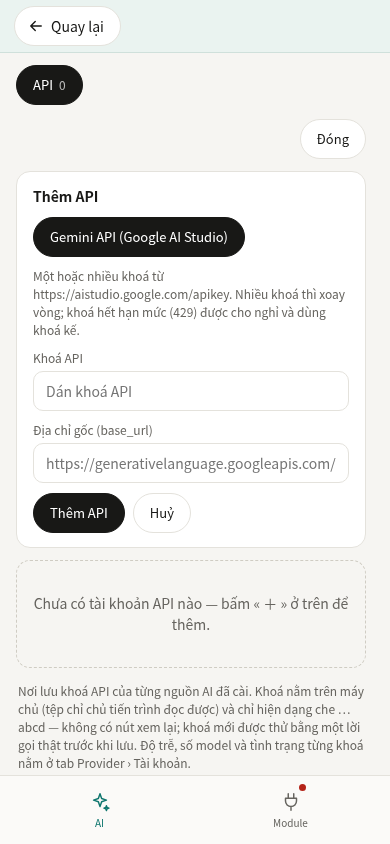
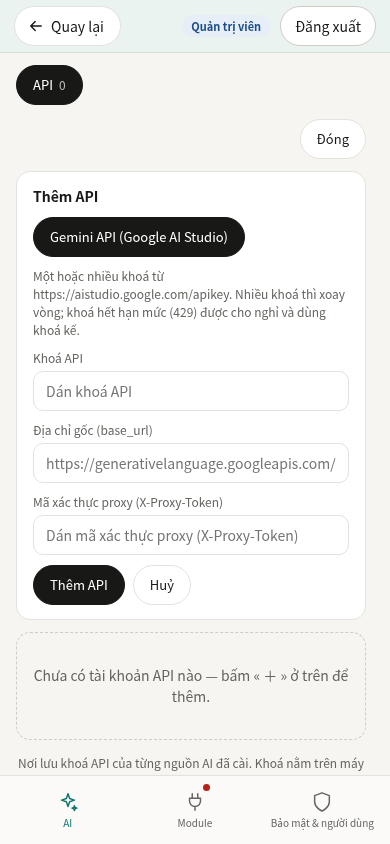
docs(readme): viết lại README tiếng Việt/Anh đầy đủ và đúng; sửa script chụp ảnh (cảnh Thiết lập/Đăng nhập/Bảo mật chụp đúng trang) và chụp lại ảnh
Lớp lỗi: tài liệu nói điều mã không làm / thiếu bước người mới cần (mã thiết lập đọc ở /data/ma_thiet_lap, không phải log; nút «Thiết lập và đăng nhập»; cài module và thêm khoá trước khi gọi chat; khôi phục kiểm→áp dụng; chown 1000:1000; PUBLIC_URL→421) và ảnh trùng băm vì script chụp hỏng.
Cùng lớp: đã kiểm sha256 22+6 ảnh: không còn ảnh trùng; đối chiếu ví dụ compose với docker-compose.yml thật.
Nguyên tắc: README nêu thẳng giới hạn (module chưa có noi/nghe/nhung/xep_hang/tim_kiem/thiet_bi trả 501; chưa kiểm Google/muse thật).
Bảo mật: script chụp dùng lõi tạm + GitHub/Google GIẢ, cờ WEB2API_TEST_CHO_PHEP_LOOPBACK chỉ đặt trong tiến trình script; ảnh không chứa khoá thật hay IP nhà.

Claude-Session: https://claude.ai/code/session_01B3y7v6Yop55GW2bmgaAdcq

diff --git a/README.en.md b/README.en.md
@@ -5,7 +5,7 @@
   <a href="https://github.com/TriTue2011/web2api/actions/workflows/security.yml"><img src="https://github.com/TriTue2011/web2api/actions/workflows/security.yml/badge.svg" alt="Security Scan"></a>
 </p>
 
-A lightweight, OpenAI-compatible AI gateway (`/v1/models`, `/v1/chat/completions`, streaming, image generation, video, audio, embeddings...) running in a single Docker container. Built for individuals and home-lab setups seeking to unify diverse AI sources (Google Gemini, Meta Muse, and more) into standard OpenAI client applications such as the OpenAI SDK, Home Assistant, Open WebUI, and LibreChat. Its core distinction: the engine acts as an unopinionated **"translator"** containing no vendor-specific code; all AI backends are modular extensions loaded on the fly from git without rebuilding Docker images or restarting containers.
+A lightweight, OpenAI-compatible AI gateway (`/v1/models`, `/v1/chat/completions`, streaming, image generation, video, audio, embeddings...) running in a single Docker container. Built for individuals and home-lab setups seeking to unify diverse AI sources (Google Gemini, Meta Muse, and more) into standard OpenAI client applications (e.g. OpenAI SDK, curl; not specifically verified with Home Assistant). Its core distinction: the engine acts as an unopinionated **"translator"** containing no vendor-specific code; all AI backends are modular extensions loaded on the fly from git without rebuilding Docker images or restarting containers.
 
 [English](README.en.md) | [Tiếng Việt](README.md)
 
@@ -15,7 +15,7 @@ flowchart LR
     CLIENT["Client Applications<br/>(OpenAI SDK, Home Assistant, curl)"]
     ADMIN["Administrator<br/>(Web Browser)"]
   end
-  subgraph W2A["web2api (Container :3031 / 127.0.0.1)"]
+  subgraph W2A["web2api (Host 127.0.0.1:3031 / Container :8000)"]
     CORE["Core Translator<br/>(FastAPI /v1 & /api)"]
     MOD["Pluggable Modules<br/>(modules/<id>/)"]
   end
@@ -34,23 +34,23 @@ flowchart LR
   - Model Catalog: `GET /v1/models` and `GET /v1/models/{model}` (aggregated from connected modules and fallback combos).
   - Vision & Image: Image generation `POST /v1/images/generations`, image edits `POST /v1/images/edits`, and Responses API `POST /v1/responses` with `image_generation` tool calls (SSE streaming supported).
   - Video Generation: Asynchronous creation `POST /v1/videos`, polling status `GET /v1/videos/{id}`, streaming content download `GET /v1/videos/{id}/content`.
-  - Audio: Text-to-speech `POST /v1/audio/speech` (binary chunked audio stream), speech-to-text `POST /v1/audio/transcriptions` (multipart file upload).
-  - Embeddings & Reranking: Vector embeddings `POST /v1/embeddings`, document reranking `POST /v1/rerank`.
-- **Runtime Pluggable Architecture**: Install, update, or remove modules from git directly via the web UI without rebuilding images or restarting containers. Core engine remains clean with zero vendor lock-in.
+  - Audio: Text-to-speech `POST /v1/audio/speech` (binary chunked audio stream), speech-to-text `POST /v1/audio/transcriptions` (standard endpoints provided by core; requires capability-providing module, none bundled currently).
+  - Embeddings & Reranking: Vector embeddings `POST /v1/embeddings`, document reranking `POST /v1/rerank` (standard endpoints provided by core; requires capability-providing module, none bundled currently).
+- **Runtime Pluggable Architecture**: Install, update, or remove modules from git directly via the web UI without rebuilding images or restarting containers. Core engine contains no vendor-specific names.
 - **Integrated Web Management Interface**:
   - **Studio**: Live chat with AI models, real-time markdown rendering, image previews, and local conversation history.
   - **System → Module**: Grid view of installed and catalog modules, one-click installation, permission and resource diff review.
   - **System → AI**: Multi-account management, adding/removing API keys per provider, model configuration.
   - **System → Security & Users**: User account administration, scoped client key generation, audit log hash chain validation.
-  - **System → Devices**: Smart device entity discovery, permission controls, and action approval queues.
-- **Multi-User Access & Role Separation**: Built-in `admin` and `user` roles. Passwords securely hashed using scrypt ($N=2^{14}$), two-tier login rate limiting against brute-force attacks, and enforcement of the last active administrator invariant. Web sessions managed via `HttpOnly`, `SameSite` cookies with automatic `Secure` and `__Host-` prefixes over HTTPS, fully protected against CSRF.
-- **Scoped Client Keys & Key Rotation**: Issue client keys (prefixed with `w2a_`) restricted to specific capabilities (`chat`, `anh`, `video`, `noi`, `nghe`, `nhung`, `xep_hang`, `tim_kiem`, `thiet_bi`, `trinh_duyet`, `*`). Seamless key rotation with configurable grace periods for retired keys (default 7 days). Global and per-key concurrency limits.
+  - **System → Devices**: Smart device entity discovery, permission controls, and action approval queues (standard endpoints provided by core; tab is automatically hidden when no device modules are loaded).
+- **Multi-User Access & Role Separation**: Built-in `admin` and `user` roles. Passwords securely hashed using scrypt ($N=2^{14}$), two-tier login rate limiting against brute-force attacks, and enforcement of the last active administrator invariant. Web sessions managed via `HttpOnly`, `SameSite=Strict` cookies with automatic `Secure` and `__Host-` prefixes over HTTPS, fully protected against CSRF.
+- **Scoped Client Keys & Key Rotation**: Issue client keys (prefixed with `w2a_`) restricted to specific capabilities (`chat`, `anh`, `anh_sua`, `video`, `noi`, `nghe`, `nhung`, `xep_hang`, `tim_kiem`, `thiet_bi`, `trinh_duyet`, `*`; scopes are open-ended like `thiet_bi:ghi`). Seamless key rotation with configurable grace periods for retired keys (default 7 days). Global and per-key concurrency limits.
 - **Smart Failover & Redundancy**: Automatic round-robin across provider keys with temporary cooldowns upon receiving 429 rate limits or quota rejections. Combos (`/api/combo`) chain multiple fallback providers with circuit breaker logic.
-- **Encrypted Backup & Restore**: Export full configuration snapshots encrypted with AES-256-GCM using a passphrase (`POST /api/sao-luu`). Integrity-checked restoration with ownership validation and atomic rollback on failure (`POST /api/khoi-phuc`).
+- **Encrypted Backup & Restore**: Export configuration snapshots encrypted with AES-256-GCM using a passphrase (`POST /api/sao-luu`). Integrity-checked restoration with ownership validation and atomic rollback on failure (`POST /api/khoi-phuc`).
 - **Tamper-Evident Hash-Chained Audit Logs**: Every log entry is cryptographically linked via SHA-256 hash chains (`truoc` and `bam`), enabling automated detection of alterations or broken chains (`GET /api/nhat-ky/chuoi`). Automatic redaction of secrets and keys in all responses and logs.
-- **Remote noVNC Browser Workspace (`vnc-xa`)**: Host isolated browser workspaces via noVNC on the server for interactive login (CAPTCHA/OTP handling), preserving session state and routing authenticated cookies directly into backend modules.
-- **Knowledge Retrieval & RAG (`/api/tim-kiem`)**: Multi-strategy knowledge retrieval combining 5 retrieval schemes (provider switches, faceted filtering, hierarchical trees, table of contents, and cascading pipelines). External data safely tagged as untrusted input.
-- **Device Tools for AI Agents (`/api/cong-cu`)**: Transforms smart device actions into OpenAI function-calling tools; approval queue (`/api/phe-duyet`) blocks dangerous physical actions until human confirmation.
+- **Remote noVNC Browser Workspace (`vnc-xa`)**: Host isolated browser workspaces via noVNC on the server (requires dedicated host browser service `dich-vu/trinh-duyet`, configured with `dich_vu_url` and `khoa_dich_vu`) for interactive login (CAPTCHA/OTP handling), preserving session state and routing authenticated cookies directly into backend modules.
+- **Knowledge Retrieval (`/api/tim-kiem`)**: Core provides standard retrieval combining 5 schemes (provider/scheme switches, faceted filtering, hierarchical trees, table of contents, and cascading pipelines). External data safely tagged as untrusted input (requires capability-providing module, none bundled currently).
+- **Device Tools for AI Agents (`/api/cong-cu`)**: Transforms smart device actions into OpenAI function-calling tools; approval queue (`/api/phe-duyet`) blocks dangerous physical actions until human confirmation (standard endpoints provided by core; requires capability-providing module, none bundled currently).
 
 ## Screenshots
 
@@ -99,7 +99,9 @@ services:
       - ALL
     security_opt:
       - no-new-privileges:true
-    mem_limit: 256m
+    # Resource limits (OPTIONAL — runs fine without them; see "Resource Limits" below): prevents a faulty module
+    # from consuming all host RAM/CPU and crashing other services. Real-world usage is ~100 MB RAM, near 0% CPU.
+    mem_limit: 1g
     cpus: 0.5
     pids_limit: 100
     labels:
@@ -110,6 +112,14 @@ volumes:
     name: web2api-data
 ```
 
+### Resource Limits (Optional)
+
+The three lines `mem_limit`, `cpus`, `pids_limit` in compose are safety guardrails, NOT prerequisites for web2api to run: removing them (deleting the lines) works normally. They prevent a malfunctioning module (memory leak, infinite loop, unbounded process spawning) from exhausting host resources and bringing down co-located services (since git-installed modules execute in-process). Real-world usage is ~100 MB RAM, near 0% CPU. Standalone hosts can safely omit them; shared hosts should keep them.
+- `mem_limit`: increase freely (`2g`, `4g`...) if running many modules or large image/video workloads. Update live without restarts via `docker update --memory 2g --memory-swap 2g web2api` (and update compose to persist across redeployments).
+- `cpus`: first candidate to remove (only slows down scrypt password hashing during concurrent logins).
+- `pids_limit`: recommended to keep as a safeguard against process bombs.
+*(Detailed reference: [docs/THAM-CHIEU.md section 5](docs/THAM-CHIEU.md#5-cài-đặt-và-vận-hành-qua-docker)).*
+
 ### 3-Step Setup
 
 1. **Start the container:**
@@ -118,18 +128,18 @@ volumes:
    ```
 
 2. **Retrieve the initial setup code:**
-   On first boot (when no administrator exists), web2api generates a one-time random setup code in `/data/ma_thiet_lap` and logs the path:
+   On first boot (when no administrator exists), web2api generates a random setup code stored at `/data/ma_thiet_lap` (mode 0600). The code is never written to logs. Read it using:
    ```bash
    docker exec web2api cat /data/ma_thiet_lap
-   # Or inspect container logs:
-   docker compose logs web2api
    ```
    *(If `WEB2API_ADMIN_KEY` was explicitly set in environment, that key also acts as a valid setup code).*
 
-3. **Configure the admin account & test API:**
+3. **Configure the admin account, install module & test API:**
    - Open `http://127.0.0.1:3031` (or `http://<host-ip>:3031` if `WEB2API_BIND` was set) in your browser.
-   - The **Setup** screen appears: paste the setup code from step 2, set a username and password, and click **Complete Setup**. The `ma_thiet_lap` file is automatically deleted.
-   - The browser is logged in immediately. Navigate to **System → Security & users** to create a Client Key or generate a personal key.
+   - The **Setup** screen appears: paste the setup code from step 2, set a username and password, and click **Set up and log in**. The `ma_thiet_lap` file is automatically deleted.
+   - The browser is logged in immediately.
+   - **Install module and add API key**: Navigate to **System → Module**, find `gemini-api`, and click **Install**. Then go to **System → AI → Accounts** (`gemini-api` section) to add your Google AI Studio key. (Without installing a module and adding a key, the model catalog will be empty and chat will be unavailable).
+   - Navigate to **System → Security & users** to create a Client Key or generate a personal key.
    - Test the endpoint using `curl`:
      ```bash
      # List available models:
@@ -141,17 +151,17 @@ volumes:
        -d '{"model": "gemini/gemini-2.5-flash", "messages": [{"role": "user", "content": "Hello web2api!"}]}'
      ```
    > [!IMPORTANT]
-   > All API endpoints (except `/health`, static assets, and initial setup/login) strictly require authentication via Bearer client/admin keys or authenticated web session cookies.
+   > All API endpoints strictly require authentication (Bearer client/admin key or authenticated web session cookie). The only unauthenticated open exceptions are: `GET /` (root landing page), `GET /health` (health check), `GET/POST /api/thiet-lap` (setup check & initial admin setup), `POST /api/dang-nhap` (login), static assets of installed modules `GET /m/<id>/...`, and noVNC session routes (`GET/POST /novnc/dang-nhap`, `/novnc/s/...`).
 
 ## Available Modules
 
 | Module | Capabilities | Protocol | Status |
 |---|---|---|---|
-| `gemini-api` | Streaming chat, image generation, Veo video | OpenAI HTTP | Available (chat verified; image/video requires paid Google AI Studio key) |
+| `gemini-api` | Streaming chat, image generation, Veo video | OpenAI HTTP | Available (chat verified with real Google API; image and Veo video not tested with real Google API, requires paid Google AI Studio key) |
 | `muse` | Chat completion | Noise XX WebSocket | Experimental, not tested against live service (requires X25519 device key) |
-| `muse2api` | Free chat via cookies | WebSocket + Noise XX | Available (reverse-engineered muse.ai web protocol, no API key required) |
+| `muse2api` | Free chat via cookies | WebSocket + Noise XX | Available (direct muse.ai web protocol, no API key required; not tested against live service) |
 | `antigravity` | Multi-model chat via CLI | HTTP Bridge | Skeleton, not tested with live `agy` (requires host bridge service) |
-| `vnc-xa` | Remote noVNC browser workspace | HTTP / WebSocket | Available (manual login, session persistence, cookie transfer to modules) |
+| `vnc-xa` | Remote noVNC browser workspace | HTTP / WebSocket | Available (requires dedicated browser service `dich-vu/trinh-duyet`, configured with `dich_vu_url` and `khoa_dich_vu`; not tested with real Firefox; manual login, session persistence, cookie transfer to modules) |
 
 - **Installing modules**: Navigate to **System → Module** in the web interface, browse available extensions from the configured git repository, and click **Install**.
 - **Git Source Configuration**: Configured via `WEB2API_GIT_REPO` (defaults to `TriTue2011/web2api`, branch `main`, directory `modules`). Background auto-installation is DISABLED by default (`tu_dong: false`) — updates trigger notifications for manual permission approval.
@@ -163,9 +173,9 @@ Most common environment variables (set in `.env` or Docker Compose):
 
 | Variable | Default | Purpose |
 |---|---|---|
-| `WEB2API_DATA` | `/data` | Host data storage path (keys, configurations, sessions, installed modules) |
-| `WEB2API_BIND` | `127.0.0.1` | Host bind IP address for Docker container port mapping |
-| `WEB2API_PORT` | `3031` | Host service port mapped to internal container port 8000 |
+| `WEB2API_DATA` | `/data` | Data directory path inside the container (keys, configurations, sessions, installed modules) |
+| `WEB2API_BIND` | `127.0.0.1` | Host bind IP address for Docker container port mapping (compose only) |
+| `WEB2API_PORT` | `3031` | Host service port mapped to internal container port 8000 (compose only) |
 | `WEB2API_ADMIN_KEY` | Auto-generated | Fallback Bearer administrative token; auto-saved to `<WEB2API_DATA>/admin_key` if omitted |
 | `WEB2API_GIT_REPO` | `TriTue2011/web2api` | GitHub repository containing modules (`owner/repo`); set empty to disable git sync |
 | `WEB2API_GIT_NHANH` | `main` | Git branch to track for module updates |
@@ -173,22 +183,24 @@ Most common environment variables (set in `.env` or Docker Compose):
 | `WEB2API_GITHUB_TOKEN` | None | GitHub Personal Access Token (`Contents: Read`) for private repos or rate limit prevention (`WEB2API_GIT_TOKEN` as alias) |
 | `WEB2API_TIN_PROXY` | None | Set to `1` to trust `X-Forwarded-Proto` from reverse proxies, enabling `Secure` and `__Host-` cookies |
 | `WEB2API_TRUST_PROXY` | None | Trusted reverse proxy / Cloudflare CIDR list used to accurately parse client IPs from `X-Forwarded-For` |
-| `WEB2API_PUBLIC_URL` | None | Official public base URL (e.g. `https://ai.example.com`) |
-| `WEB2API_QT_IP_CHO_PHEP` | None | Allowed CIDR list (e.g. `192.0.2.0/24`) restricted to manage `/api/*` and setup routes |
+| `WEB2API_PUBLIC_URL` | None | Official public base URL (e.g. `https://ai.example.com`). When set, requests with other domain Hosts (including LAN `nas.local`) receive 421; IP and localhost always pass |
+| `WEB2API_QT_IP_CHO_PHEP` | None | Allowed CIDR list (e.g. `192.0.2.0/24`) restricted to admin API routes and setup |
 | `WEB2API_KHACH_DONG_THOI` | `4` | Maximum concurrent requests allowed per client key (`0` = unlimited) |
 | `WEB2API_V1_DONG_THOI_TOAN_CUC` | `32` | Maximum concurrent requests allowed globally across `/v1` (`0` = unlimited) |
-| `WEB2API_THAN_TOI_DA_MB` | `25` | Maximum JSON request body size limit in megabytes |
+| `WEB2API_THAN_TOI_DA_MB` | `25` | Maximum JSON request body size limit in megabytes for `/v1` and `/api/*` |
 | `WEB2API_TEP_TOI_DA_MB` | `25` | Maximum multipart/form-data upload size limit in megabytes |
-| `WEB2API_RL_LOI_XAC_THUC` | `30` | Consecutive auth failure threshold before temporarily locking client IP for `WEB2API_RL_KHOA_GIAY` (60s) |
+| `WEB2API_RL_LOI_XAC_THUC` | `30` | Auth failure threshold within the window before temporarily locking client IP for `WEB2API_RL_KHOA_GIAY` (60s) |
 | `WEB2API_DANG_NHAP_SAI_TOI_DA` | `5` | Maximum consecutive login failures per account before imposing a 15-minute lock |
 | `TZ` | None | System IANA timezone (e.g. `Asia/Ho_Chi_Minh`) for accurate Studio timestamps |
 
-For complete documentation of all configuration options, see [docs/THAM-CHIEU.md section 8](docs/THAM-CHIEU.md#8-tra-cứu-api-và-biến-môi-trường).
+- **Host environment (LXC / Proxmox)**: When the container cannot read host hardware specs, declare `WEB2API_MAY_RAM_MB` (host RAM in MB) and `WEB2API_MAY_CPU` (host CPU core count).
+- **Web session lifetimes**: 8-hour idle timeout, 7-day absolute lifetime, maximum 5 concurrent sessions per account.
+- For complete documentation of all configuration options, see [docs/THAM-CHIEU.md section 8](docs/THAM-CHIEU.md#8-tra-cứu-api-và-biến-môi-trường).
 
 ## Security
 
 - **Secure by Default**:
-  - Container listens exclusively on localhost `127.0.0.1` and runs under unprivileged `uid 1000:1000`.
+  - Compose publishes ports exclusively on host localhost `127.0.0.1` (configurable via `WEB2API_BIND`) and runs under unprivileged `uid 1000:1000`.
   - Dropped all Linux capabilities (`cap_drop: [ALL]`) and prevented privilege escalation (`no-new-privileges:true`).
   - Automatic module installation is disabled by default (`tu_dong: false`), requiring explicit administrator review.
   - New client keys default to minimal scopes (`["chat"]`) rather than broad wildcard access (`*`).
@@ -197,14 +209,14 @@ For complete documentation of all configuration options, see [docs/THAM-CHIEU.md
   - Strict SSRF and path traversal defenses: outbound HTTP requests validated via `app/tu_xa.py` with DNS pinning, and paths resolved under root.
   - Automatic redaction of API keys and secrets in all logs; audit log lines cryptographically secured via SHA-256 hash chains.
 - **Recommended Production Deployment**:
-  - Deploy behind Cloudflare Tunnel or an isolated VPN (WireGuard, Tailscale) without opening router ports.
-  - When running behind reverse proxies, configure `WEB2API_TRUST_PROXY` and enable `WEB2API_TIN_PROXY=1`.
+  - Deploy behind Cloudflare Tunnel (recommended — no open router ports needed) or a reverse proxy as guided in [docs/TRIEN-KHAI.md](docs/TRIEN-KHAI.md).
+  - Configure `WEB2API_TRUST_PROXY` and enable `WEB2API_TIN_PROXY=1` when running behind reverse proxies (otherwise, `Secure` cookies are only issued if `WEB2API_PUBLIC_URL` is https:// and Host matches).
   - Secure SSH with public keys only (`PasswordAuthentication no`), and disable UPnP on routers.
   - Step-by-step hardening guide available in [docs/TRIEN-KHAI.md](docs/TRIEN-KHAI.md).
 - **Vulnerability Reporting**: Follow the private disclosure policy outlined in [SECURITY.md](SECURITY.md).
 - **Known Limitations**:
   - Dynamic modules execute in-process within the main Python runtime, sharing container memory and process privileges.
-  - Strict Content Security Policy (CSP) is currently enforced on noVNC frames, with broader policy enhancements planned.
+  - Strict Content Security Policy (CSP) is enforced only on module pages `/m/<id>/` and noVNC frames; the main web UI lacks a global CSP (due to inline scripts) and HSTS.
   - Password-protected backup archives contain provider API keys and must be stored as securely as passwords.
 
 ## Portainer and NAS
@@ -215,24 +227,28 @@ The default service port is `3031` (mapped to internal `8000`), with persistent 
 1. Go to **Stacks** → **Add stack** and assign a name (e.g. `web2api`).
 2. Paste the compose configuration from [Quick Start](#quick-start) into the web editor.
 3. Add any required environment variables under **Environment variables** (such as `WEB2API_BIND`).
-4. Click **Deploy the stack**. To update in the future, select **Pull and redeploy**. Retrieve the setup code using `docker exec web2api cat /data/ma_thiet_lap` in the container console.
+4. Click **Deploy the stack**. To update in the future, select **Pull and redeploy**. Retrieve the setup code using `docker exec web2api cat /data/ma_thiet_lap` in the container console to initialize the admin account (the code is never printed to logs).
 
 ### Synology NAS (Container Manager)
 1. Open **Container Manager** → **Project** → **Create**.
-2. Set project name and choose directory `/volume1/docker/web2api`.
+2. Set project name and choose directory `/volume1/docker/web2api`. Host-bound directories created automatically by Docker are owned by `root`, preventing the container uid 1000 from writing and causing it to stop immediately: run `sudo chown -R 1000:1000 /volume1/docker/web2api` via SSH beforehand.
 3. Paste compose contents, mapping volume `/volume1/docker/web2api:/data`.
-4. Finish wizard, start the project, and inspect container logs or terminal for the setup code.
+4. Finish project startup, open the container Terminal and run `cat /data/ma_thiet_lap` to read the setup code (the code is never printed to logs).
 
 ### QNAP NAS (Container Station)
 1. Open **Container Station** → **Applications** → **Create**.
 2. Enter application name and paste the docker-compose YAML.
-3. Verify persistent storage binds the NAS folder to `/data` and ensure user is set to `1000:1000`.
-4. Click **Create** to deploy, then read the setup code from the application logs.
+3. Ensure the volume binds the NAS folder to `/data` in the container, apply `chown -R 1000:1000` to the NAS storage folder before launch, and configure user `1000:1000`.
+4. Click **Create** to deploy, then open the container Terminal and run `cat /data/ma_thiet_lap` to retrieve the setup code (the code is never printed to logs).
 
 ### Unraid
 1. Open the **Docker** tab (or use Compose Manager plugin).
 2. Paste the compose configuration or configure template from `ghcr.io/tritue2011/web2api:latest`.
-3. Map host port `3031` to `8000`, bind `/mnt/user/appdata/web2api` to `/data`, and set user `1000:1000`.
+3. The directory `/mnt/user/appdata/web2api` must be granted permissions via `chown -R 1000:1000` before launch.
+4. Map port `127.0.0.1:3031:8000` (setting `3031:8000` exposes the port to the entire LAN), bind `/mnt/user/appdata/web2api` to `/data`, and set user `1000:1000`.
+
+### Running in LXC / Proxmox
+When running web2api inside an LXC container or Proxmox VM, cgroups virtualization may prevent the container from detecting host physical RAM and CPU core counts. Declare `WEB2API_MAY_RAM_MB` (e.g. `8192` for 8 GB RAM) and `WEB2API_MAY_CPU` (e.g. `4` for 4 cores) in `.env` to display accurate hardware stats on the System page.
 
 ## Private Repositories
 
@@ -262,9 +278,9 @@ docker compose pull && docker compose up -d
 ```
 
 ### Backup and Restoration
-- **API Backup**: Invoke `POST /api/sao-luu` (provide `mat_khau` to encrypt secrets using AES-256-GCM).
-- **API Restore**: Upload the backup bundle via `POST /api/khoi-phuc`. The system performs validation and conflict prevention prior to writing.
-- **Direct Docker Volume Backup**:
+- **API Backup**: Send a `POST /api/sao-luu` request with JSON body `{"mat_khau": "...", "kem_phien": false}` (password ≥ 12 characters to encrypt all secrets using AES-256-GCM; omitting the password skips API keys in `bi_mat/`). The API backup bundle does NOT include user accounts (`nguoi_dung.json`), `admin_key`, logs, or git module code (only stores module IDs and commit SHAs).
+- **API Restore**: Send a multipart request to `POST /api/khoi-phuc` (fields: `tep`, `mat_khau`, `che_do`, `sha256`). By default, `che_do=kiem` only previews changes and computes the backup file's `sha256` hash; call a second time with `che_do=ap_dung` along with the returned `sha256` to actually apply the restore.
+- **Direct Docker Volume Backup**: To back up all data (including user accounts and admin key):
   ```bash
   docker run --rm -v web2api-data:/data -v $(pwd):/backup alpine tar czf /backup/web2api-data-backup.tar.gz -C /data .
   ```
@@ -274,11 +290,15 @@ docker compose pull && docker compose up -d
 1. **Port 3031 Conflict:** Change the external mapped port using `WEB2API_PORT=3032` in `.env`.
 2. **HTTP 429 Too Many Requests (Global Proxy Lockout):** Behind Cloudflare or reverse proxies, omitting `WEB2API_TRUST_PROXY` causes all incoming requests to share the proxy's IP. One bad key blocks all traffic. Configure proxy CIDRs in `WEB2API_TRUST_PROXY` as documented in [docs/TRIEN-KHAI.md](docs/TRIEN-KHAI.md).
 3. **HTTP 401 Unauthorized / 403 Forbidden on API Calls:** Check the `Authorization: Bearer <key>` header. Ensure client keys are active and include the appropriate scope for the targeted endpoint (e.g. `anh` scope for image generation).
-4. **Forgotten Administrator Password:**
-   - *Option 1*: Use the administrative master key via Bearer header (`WEB2API_ADMIN_KEY` or from `/data/admin_key`) to invoke `POST /api/nguoi-dung/{id}/dat-lai-mat-khau` (obtain `id` via `GET /api/nguoi-dung`).
-   - *Option 2*: Stop the container, delete or move `nguoi_dung.json` inside the `/data` volume, and restart the container. Detecting zero administrators, the system will generate a fresh setup code at `/data/ma_thiet_lap` allowing re-initialization.
-5. **Module Fails to Load:** Inspect container logs using `docker compose logs web2api` or check module errors in the **System → Module** catalog. If a module requires missing native packages, deploy it as a remote module instead.
-6. **Session Cookies Not Saved or Insecure:** Behind an HTTPS reverse proxy, `WEB2API_TIN_PROXY=1` must be set in `.env` so web2api recognizes the secure scheme and issues cookies with `Secure` flags (`__Host-w2a_phien`).
+4. **Password Changes & Forgotten Administrator Password:**
+   - *Regular Password Change*: Authenticated users can change their own password via `POST /api/toi/mat-khau`.
+   - *Forgotten Admin Password - Option 1*: Use the administrative master key via Bearer header (`WEB2API_ADMIN_KEY` or from `/data/admin_key`) to invoke `POST /api/nguoi-dung/{id}/dat-lai-mat-khau` (obtain `id` via `GET /api/nguoi-dung`). The API responds with a new random `mat_khau_moi`.
+   - *Forgotten Admin Password - Option 2*: Stop the container, delete or move `nguoi_dung.json` inside the `/data` volume (backup first), and restart the container.
+     > [!WARNING]
+     > Deleting `nguoi_dung.json` will ERASE ALL users and INVALIDATE ALL owned client keys. Detecting zero administrators, the system generates a fresh setup code at `/data/ma_thiet_lap` allowing re-initialization.
+   - *Rotate Admin Key*: Stop the container, delete `/data/admin_key`, and restart; the system automatically generates a new 64-character admin key.
+5. **Module Fails to Load:** Inspect container logs using `docker compose logs web2api` or check module errors in **System → Module**. If a module requires missing native packages, deploy it as a remote module instead.
+6. **Session Cookies Not Saved or Insecure:** Behind an HTTPS reverse proxy, `WEB2API_TIN_PROXY=1` should be set in `.env` so web2api recognizes HTTPS and issues cookies with `Secure` flags (`__Host-w2a_phien`) (otherwise, `Secure` is only enabled if `WEB2API_PUBLIC_URL` is https:// and Host matches).
 7. **GitHub API Rate Limit Exceeded:** Create a read-only GitHub PAT and supply it in `WEB2API_GITHUB_TOKEN`.
 8. **HTTP 502 Bad Gateway from Upstream Models:** Upstream service dropped the connection or geo-blocked your server IP (e.g. Gemini region restrictions in Vietnam require configuring `base_url` through the Cloudflare Worker proxy in `deploy/`).
 
@@ -316,7 +336,7 @@ docker build -t web2api:latest .                          # Image build verifica
 For contribution guidelines and coding standards, refer to [CONTRIBUTING.md](CONTRIBUTING.md).
 
 ### License
-Copyright (c) 2026 `TriTue2011`. **All rights reserved** (Proprietary / Source-available, see [LICENSE](LICENSE)). Source code is made publicly visible on GitHub solely for auditability and transparency.
+Copyright (c) 2026 `TriTue2011`. **All rights reserved** (Proprietary, see [LICENSE](LICENSE)). Source code is made publicly visible on GitHub solely for transparency.
 
 ## Further Reading
 
